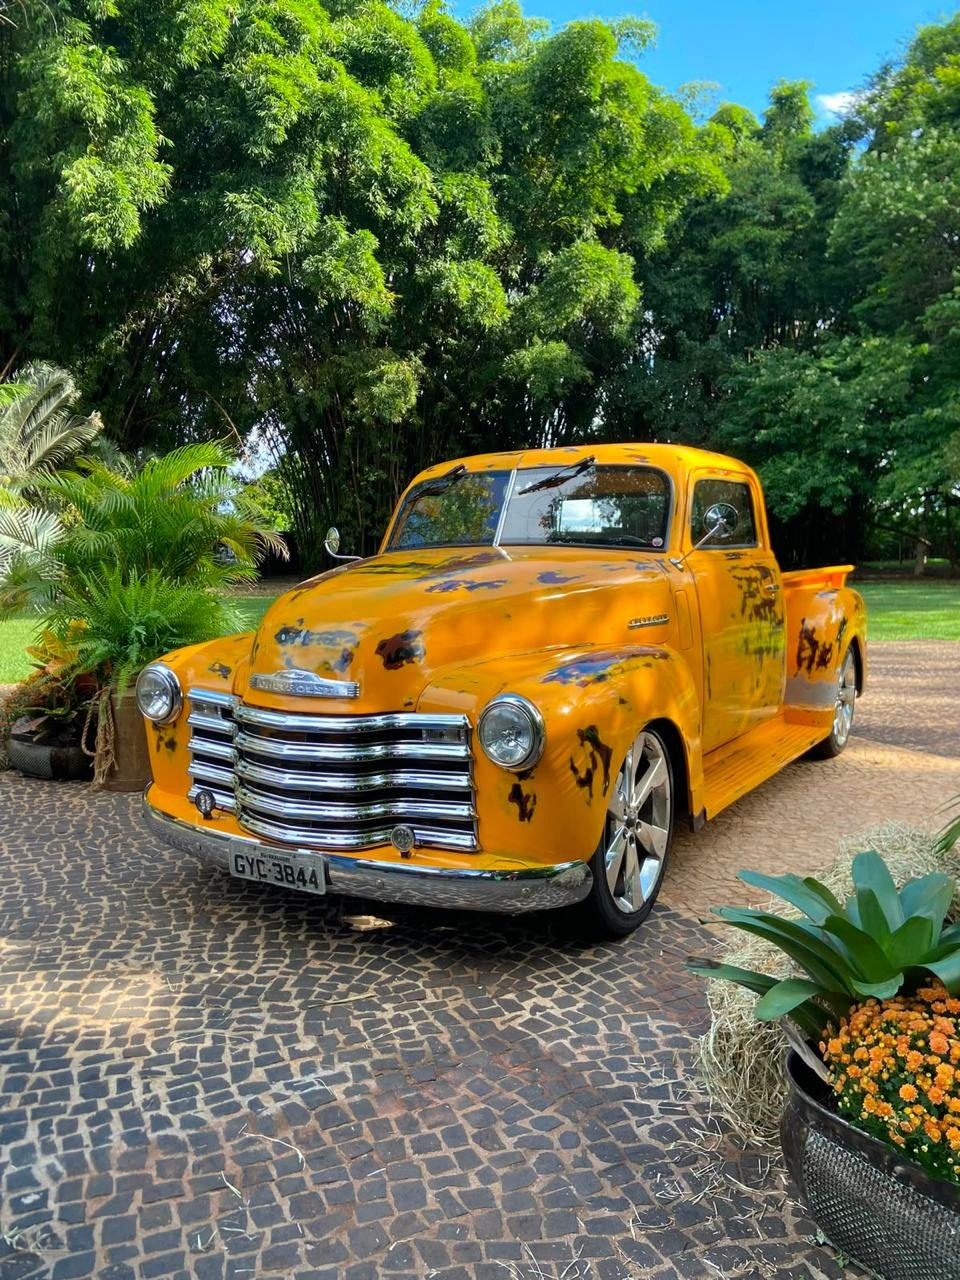
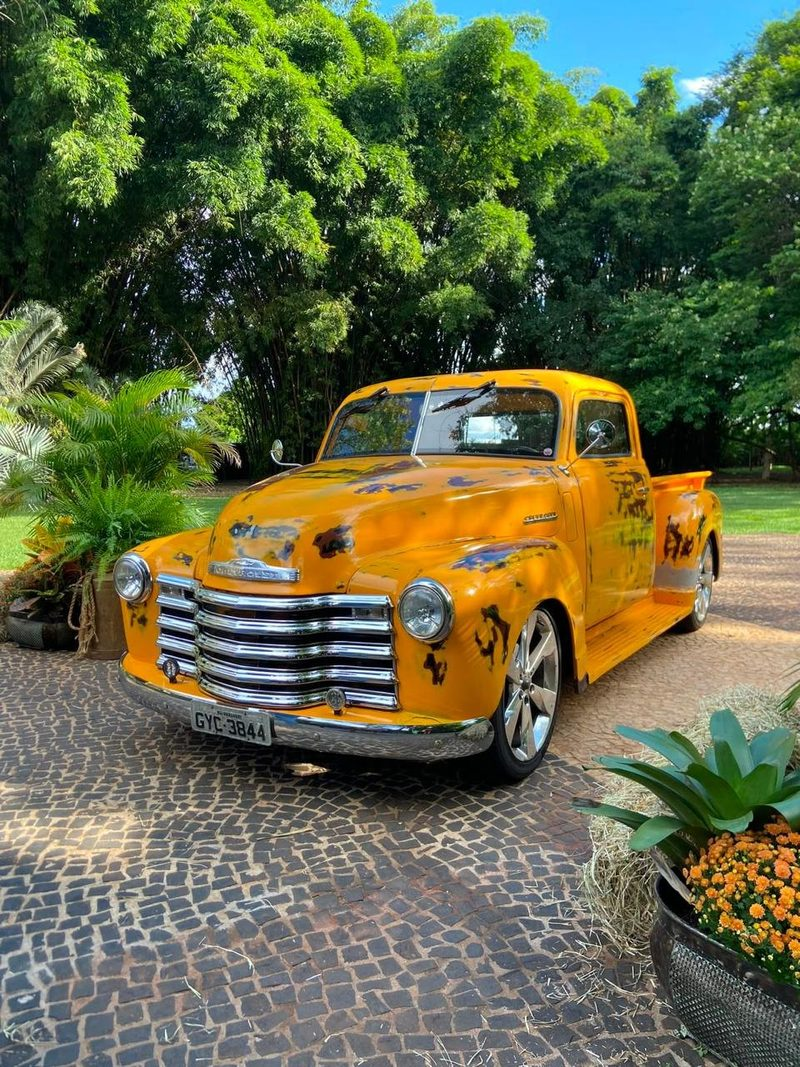
Revisão geral: textos, SEO, compartilhamento, imagens e acessibilidade
- Textos: correções de concordância e pontuação; frases sem afirmações
  que não dá para comprovar ("o mais famoso do Brasil", "cinco frisos")
- SEO: título e descrição com a busca local, canonical, dados de negócio
  local (schema.org) e imagem de compartilhamento 1200x630
- Ícone da aba (placa AL) e ícone para a tela inicial do celular
- Imagens em WebP com tamanhos por tela e fundo já desfocado em arquivo
  (sem blur pesado no CSS); fontes só nos pesos usados
- Título do topo visível no primeiro quadro; mais contraste nos textos
  sobre a foto; data mínima da reserva no fuso local

Lighthouse (celular): desempenho 83 -> 98, acessibilidade 96 -> 100,
boas práticas 96 -> 100, SEO 100.

Claude-Session: https://claude.ai/code/session_015yZBMqXKyy5axx8th3trUc

diff --git a/index.html b/index.html
@@ -3,27 +3,55 @@
 <head>
 <meta charset="utf-8">
 <meta name="viewport" content="width=device-width, initial-scale=1, viewport-fit=cover">
-<title>Aluganeio</title>
-<meta name="description" content="Aluguel de carros clássicos: Chevrolet Veraneio e Chevrolet 3100 Boca de Sapo para casamentos, ensaios fotográficos, filmes e eventos.">
-<meta property="og:title" content="Aluganeio — clássicos para alugar">
-<meta property="og:description" content="Veraneio e Boca de Sapo para casamentos, ensaios, filmes e eventos.">
+<title>Aluganeio · Aluguel de carros antigos para casamento em Uberlândia</title>
+<meta name="description" content="Alugue uma Chevrolet Veraneio ou uma Chevrolet 3100 Boca de Sapo para casamentos, ensaios fotográficos, filmes e eventos em Uberlândia e região. Reserva rápida pelo WhatsApp.">
+<link rel="canonical" href="https://joaolimaarcom.github.io/aluganeio/">
+<meta property="og:type" content="website">
+<meta property="og:locale" content="pt_BR">
+<meta property="og:site_name" content="Aluganeio">
+<meta property="og:url" content="https://joaolimaarcom.github.io/aluganeio/">
+<meta property="og:title" content="Aluganeio · Veraneio e Boca de Sapo para alugar">
+<meta property="og:description" content="Dois clássicos Chevrolet amarelos para casamentos, ensaios, filmes e eventos em Uberlândia e região.">
+<meta property="og:image" content="https://joaolimaarcom.github.io/aluganeio/assets/og-image.jpg">
+<meta property="og:image:width" content="1200">
+<meta property="og:image:height" content="630">
+<meta property="og:image:alt" content="Chevrolet Veraneio e Chevrolet 3100 Boca de Sapo amarelas lado a lado">
+<meta name="twitter:card" content="summary_large_image">
 <meta name="theme-color" content="#15211F">
+<link rel="icon" href="assets/favicon.svg" type="image/svg+xml">
+<link rel="apple-touch-icon" href="assets/apple-touch-icon.png">
 <link rel="preconnect" href="https://fonts.googleapis.com">
 <link rel="preconnect" href="https://fonts.gstatic.com" crossorigin>
-<link rel="stylesheet" href="https://fonts.googleapis.com/css2?family=Archivo:wdth,wght@62..125,400..900&family=Barlow+Condensed:wght@500;600;700&family=Instrument+Sans:wght@400;500;600&display=swap">
+<link rel="stylesheet" href="https://fonts.googleapis.com/css2?family=Archivo:wdth,wght@100..125,700..900&family=Barlow+Condensed:wght@600;700&family=Instrument+Sans:wght@400;500;600&display=swap">
 <link rel="stylesheet" href="assets/style.css">
+<script type="application/ld+json">
+{
+  "@context": "https://schema.org",
+  "@type": "LocalBusiness",
+  "name": "Aluganeio",
+  "description": "Aluguel de carros antigos para casamentos, ensaios fotográficos, filmes e eventos.",
+  "url": "https://joaolimaarcom.github.io/aluganeio/",
+  "image": "https://joaolimaarcom.github.io/aluganeio/assets/og-image.jpg",
+  "telephone": "+55 34 99772-9702",
+  "areaServed": ["Uberlândia", "Triângulo Mineiro"],
+  "address": { "@type": "PostalAddress", "addressLocality": "Uberlândia", "addressRegion": "MG", "addressCountry": "BR" }
+}
+</script>
 </head>
 <body>
 
 <div class="backdrop" aria-hidden="true">
-  <img class="bd-sharp" src="assets/fotos/os-dois.jpg" alt="">
-  <img class="bd-blur" src="assets/fotos/os-dois.jpg" alt="">
+  <picture>
+    <source type="image/webp" srcset="assets/fotos/os-dois-800.webp 800w, assets/fotos/os-dois-1500.webp 1500w" sizes="100vw">
+    <img class="bd-sharp" src="assets/fotos/os-dois.jpg" alt="" fetchpriority="high" decoding="async">
+  </picture>
+  <img class="bd-blur" src="assets/fotos/os-dois-blur.webp" alt="" decoding="async">
   <div class="bd-shade"></div>
   <div class="bd-veil"></div>
 </div>
 
 <header class="topbar">
-  <a class="brand" href="#inicio" aria-label="Aluganeio, início">
+  <a class="brand" href="#inicio">
     <span class="brand-plate" aria-hidden="true">AL</span>
     <span class="brand-name">Aluganeio</span>
   </a>
@@ -43,7 +71,7 @@
     <div class="hero-copy">
       <p class="eyebrow">Aluguel de clássicos · Chevrolet Veraneio e Chevrolet 3100 Boca de Sapo</p>
       <h1 class="hero-title">Chegue de <span class="swap" id="heroSwap">Veraneio</span></h1>
-      <p class="hero-lede">Dois Chevrolet amarelos, cromados e prontos para o seu casamento, ensaio, filme ou evento. Você escolhe o carro e a data, a gente cuida do resto.</p>
+      <p class="hero-lede">Dois clássicos Chevrolet amarelos, cromados e prontos para o seu casamento, ensaio, filme ou evento. Você escolhe o carro e a data, a gente cuida do resto.</p>
       <div class="hero-actions">
         <a class="btn btn-plate" href="#reserva">Montar minha reserva</a>
         <a class="btn btn-glass" href="#frota">Conhecer a frota</a>
@@ -77,7 +105,10 @@
     <div class="fleet">
       <article class="car-card" data-car="veraneio">
         <div class="photo">
-          <img src="assets/fotos/veraneio.jpg" alt="Chevrolet Veraneio amarela, vista de frente, com grade preta e para-choque cromado" style="--pos: 40% 60%" loading="lazy" onerror="this.remove()">
+          <picture>
+            <source type="image/webp" srcset="assets/fotos/veraneio-560.webp 560w, assets/fotos/veraneio-900.webp 900w" sizes="(min-width: 900px) 540px, 92vw">
+            <img src="assets/fotos/veraneio.jpg" alt="Chevrolet Veraneio amarela, vista de frente, com grade preta e para-choque cromado" style="--pos: 40% 60%" width="800" height="916" loading="lazy" decoding="async" onerror="this.remove()">
+          </picture>
           <div class="photo-empty">
             <div class="plate"><small>ALUGANEIO · BR</small><strong>VE·0001</strong></div>
             <span>Foto em breve</span>
@@ -86,9 +117,9 @@
         <div class="car-body">
           <div class="car-title">
             <h3>Chevrolet Veraneio</h3>
-            <span class="tag">O utilitário mais famoso do Brasil</span>
+            <span class="tag">Um ícone das estradas brasileiras</span>
           </div>
-          <p>Espaçosa, imponente e amarela do para-choque ao teto. A Veraneio marcou gerações nas estradas brasileiras e hoje faz qualquer chegada virar foto.</p>
+          <p>Espaçosa, imponente e amarela do capô ao teto. A Veraneio marcou gerações nas estradas brasileiras e hoje faz qualquer chegada virar foto.</p>
           <dl class="specs">
             <div><dt>Ano</dt><dd class="todo">a definir</dd></div>
             <div><dt>Cor</dt><dd>Amarela</dd></div>
@@ -101,7 +132,10 @@
 
       <article class="car-card" data-car="boca">
         <div class="photo">
-          <img src="assets/fotos/boca-de-sapo.jpg" alt="Picape Chevrolet 3100 Boca de Sapo amarela com pintura envelhecida, montada em um jardim para evento" style="--pos: 50% 65%" loading="lazy" onerror="this.remove()">
+          <picture>
+            <source type="image/webp" srcset="assets/fotos/boca-de-sapo-560.webp 560w, assets/fotos/boca-de-sapo-900.webp 900w" sizes="(min-width: 900px) 540px, 92vw">
+            <img src="assets/fotos/boca-de-sapo.jpg" alt="Picape Chevrolet 3100 Boca de Sapo amarela com pintura envelhecida, montada em um jardim para evento" style="--pos: 50% 65%" width="800" height="1067" loading="lazy" decoding="async" onerror="this.remove()">
+          </picture>
           <div class="photo-empty">
             <div class="plate"><small>ALUGANEIO · BR</small><strong>BS·0002</strong></div>
             <span>Foto em breve</span>
@@ -112,7 +146,7 @@
             <h3>Chevrolet 3100 Boca de Sapo</h3>
             <span class="tag">A picape da grade cromada</span>
           </div>
-          <p>A grade cromada de cinco frisos deu o apelido que pegou. Pintura amarela com pátina, rodas modernas e aquele charme de quem já rodou muita estrada. Fica linda na decoração de festas e casamentos no campo.</p>
+          <p>A grade cromada deu o apelido que pegou. Pintura amarela com pátina, rodas modernas e aquele charme de quem já rodou muita estrada. Fica linda na decoração de festas e casamentos no campo.</p>
           <dl class="specs">
             <div><dt>Ano</dt><dd class="todo">a definir</dd></div>
             <div><dt>Cor</dt><dd>Amarela com pátina</dd></div>
@@ -126,7 +160,7 @@
   </section>
 
   <!-- OCASIÕES -->
-  <section class="section section-alt" id="ocasioes">
+  <section class="section" id="ocasioes">
     <div class="section-head">
       <p class="eyebrow">Ocasiões</p>
       <h2>Para os dias que merecem entrada de cinema.</h2>
@@ -252,7 +286,7 @@
       <div class="reserve-copy">
         <p class="eyebrow">Reserva</p>
         <h2>Monte seu pedido em um minuto.</h2>
-        <p>Preencha os campos e toque em enviar. Abrimos o WhatsApp com sua mensagem pronta, é só confirmar o envio.</p>
+        <p>Preencha os campos e toque em enviar. Abrimos o WhatsApp com a sua mensagem pronta. É só confirmar o envio.</p>
         <div class="ticket" aria-live="polite">
           <div class="ticket-row"><span>Carro</span><strong id="tkCar">Veraneio</strong></div>
           <div class="ticket-row"><span>Pacote</span><strong id="tkPkg">Dia do Casamento</strong></div>
@@ -325,7 +359,7 @@
 
         <label class="field">
           <span>Algum detalhe? <em>(opcional)</em></span>
-          <textarea id="fNotes" name="notes" rows="3" placeholder="Horário, locais, decoração..."></textarea>
+          <textarea id="fNotes" name="notes" rows="3" placeholder="Horário, locais, decoração…"></textarea>
         </label>
 
         <p class="form-error" id="formError" hidden></p>
@@ -371,7 +405,7 @@
         </details>
         <details>
           <summary>Dá para usar os dois carros no mesmo evento?</summary>
-          <p>Dá, e fica lindo nas fotos. Um exemplo: a Veraneio leva a noiva e a Boca de Sapo fica exposta na festa. Escolha "Os dois" na reserva.</p>
+          <p>Dá, e fica lindo nas fotos. Um exemplo: a Veraneio leva a noiva e a Boca de Sapo fica exposta na festa. Escolha “Os dois” na reserva.</p>
         </details>
         <details>
           <summary>Quantas pessoas cabem em cada carro?</summary>
@@ -426,7 +460,7 @@
   <div class="chat-chips" id="chatChips"></div>
   <form class="chat-form" id="chatForm">
     <label class="sr-only" for="chatInput">Sua pergunta</label>
-    <input id="chatInput" type="text" autocomplete="off" maxlength="500" placeholder="Pergunte sobre carros, pacotes, datas...">
+    <input id="chatInput" type="text" autocomplete="off" maxlength="500" placeholder="Pergunte sobre carros, pacotes, datas…">
     <button type="submit" aria-label="Enviar pergunta">
       <svg viewBox="0 0 24 24" aria-hidden="true"><path d="M3 11.5 21 3l-8.5 18-2.2-7.3L3 11.5Z"/></svg>
     </button>

diff --git a/assets/style.css b/assets/style.css
@@ -110,15 +110,17 @@ p { margin: 0; }
   object-fit: cover; object-position: 50% 62%;
 }
 .bd-sharp { animation: focus-in 2s cubic-bezier(.2,.7,.2,1) both; }
-.bd-blur { filter: blur(40px) saturate(160%); transform: scale(1.08); opacity: var(--blur-o); }
+/* a versão desfocada já vem pronta do arquivo (mais leve que blur no CSS) */
+.bd-blur { filter: saturate(150%); transform: scale(1.06); opacity: var(--blur-o); will-change: opacity; }
 .bd-shade {
   position: absolute; inset: 0;
   background:
-    linear-gradient(90deg, rgba(8, 12, 11, 0.72) 0%, rgba(8, 12, 11, 0.35) 55%, rgba(8, 12, 11, 0.10) 100%),
+    linear-gradient(90deg, rgba(8, 12, 11, 0.80) 0%, rgba(8, 12, 11, 0.45) 55%, rgba(8, 12, 11, 0.12) 100%),
     linear-gradient(180deg, rgba(8, 12, 11, 0.35) 0%, transparent 30%, rgba(8, 12, 11, 0.55) 100%);
   opacity: calc(1 - var(--blur-o) * 0.6);
+  will-change: opacity;
 }
-.bd-veil { position: absolute; inset: 0; background: var(--veil); opacity: var(--blur-o); }
+.bd-veil { position: absolute; inset: 0; background: var(--veil); opacity: var(--blur-o); will-change: opacity; }
 @keyframes focus-in {
   from { filter: blur(24px) saturate(140%); transform: scale(1.1); }
   to { filter: none; transform: scale(1); }
@@ -215,7 +217,7 @@ p { margin: 0; }
   color: var(--on-photo);
 }
 .hero-copy { display: grid; gap: 22px; max-width: 900px; }
-.hero .eyebrow { color: rgba(246, 247, 242, 0.82); }
+.hero .eyebrow { color: rgba(246, 247, 242, 0.94); }
 .hero-title {
   font-size: clamp(52px, 10.5vw, 148px);
   font-weight: 900;
@@ -227,7 +229,7 @@ p { margin: 0; }
 }
 .swap { color: var(--plate); display: inline-block; transition: opacity .35s ease, transform .35s ease, filter .35s ease; }
 .swap.out { opacity: 0; transform: translateY(12px); filter: blur(8px); }
-.hero-lede { font-size: clamp(18px, 1.8vw, 21px); color: rgba(246, 247, 242, 0.88); max-width: 54ch; }
+.hero-lede { font-size: clamp(18px, 1.8vw, 21px); color: rgba(246, 247, 242, 0.96); max-width: 54ch; text-shadow: 0 1px 12px rgba(0, 0, 0, 0.35); }
 .hero-actions { display: flex; flex-wrap: wrap; gap: 12px; }
 .hero-meta { display: flex; flex-wrap: wrap; align-items: end; justify-content: space-between; gap: 20px; }
 .hero-plates { display: flex; gap: 12px; }
@@ -247,7 +249,8 @@ p { margin: 0; }
 }
 @media (max-width: 600px) { .hero-plates .plate strong { font-size: 26px; } }
 
-@keyframes rise { from { opacity: 0; transform: translateY(24px); filter: blur(10px); } to { opacity: 1; transform: none; filter: none; } }
+/* sem opacity 0: o título aparece já no primeiro quadro (melhor para o Google) */
+@keyframes rise { from { transform: translateY(24px); filter: blur(10px); } to { transform: none; filter: none; } }
 @keyframes cue { 0%, 100% { transform: translateY(0); opacity: 1; } 60% { transform: translateY(10px); opacity: 0; } }
 
 /* ---------- Faixa ---------- */
@@ -343,12 +346,12 @@ p { margin: 0; }
 
 /* ---------- Reserva ---------- */
 .reserve {
-  background: rgba(12, 18, 16, 0.62);
+  background: rgba(12, 18, 16, 0.74);
   border-color: rgba(255, 255, 255, 0.12);
   color: var(--on-photo);
 }
 .reserve-grid { display: grid; grid-template-columns: repeat(auto-fit, minmax(min(100%, 360px), 1fr)); gap: clamp(32px, 6vw, 72px); align-items: start; }
-.reserve .eyebrow, .reserve-copy > p { color: rgba(246, 247, 242, 0.75); }
+.reserve .eyebrow, .reserve-copy > p { color: rgba(246, 247, 242, 0.88); }
 .reserve-copy { display: grid; gap: 18px; }
 .ticket {
   margin-top: 12px;
@@ -358,7 +361,7 @@ p { margin: 0; }
 }
 .ticket-row { display: flex; justify-content: space-between; gap: 16px; padding: 12px 0; border-bottom: 1px solid rgba(255, 255, 255, 0.10); }
 .ticket-row:last-child { border-bottom: 0; }
-.ticket-row span { font: 600 13px/1.4 var(--f-data); letter-spacing: 0.14em; text-transform: uppercase; color: rgba(246, 247, 242, 0.62); }
+.ticket-row span { font: 600 13px/1.4 var(--f-data); letter-spacing: 0.14em; text-transform: uppercase; color: rgba(246, 247, 242, 0.82); }
 .ticket-row strong { font-weight: 600; text-align: right; }
 
 .form {

diff --git a/assets/app.js b/assets/app.js
@@ -39,8 +39,9 @@ const formatDate = (iso) => {
   return `${d}/${m}/${y}`;
 };
 
-// Data mínima: hoje
-date.min = new Date().toISOString().slice(0, 10);
+// Data mínima: hoje (no fuso de quem está usando, não em UTC)
+const today = new Date();
+date.min = `${today.getFullYear()}-${String(today.getMonth() + 1).padStart(2, "0")}-${String(today.getDate()).padStart(2, "0")}`;
 
 function updateTicket() {
   $("#tkCar").textContent = form.car.value;

diff --git a/README.md b/README.md
@@ -25,7 +25,7 @@ worker/worker.js           servidor do chat (arquivo único para colar na Cloudf
 - [ ] Confirmar pacotes (duração, itens inclusos, preços ou "sob consulta")
 - [ ] Confirmar respostas das Dúvidas (motorista, decoração, cidades, sinal, chuva)
 - [x] Worker do chat publicado: https://aluganeio.jlrodrigues6900.workers.dev/
-- [ ] Cadastrar o secret GEMINI_API_KEY no Worker
+- [x] Chave do Gemini cadastrada no Worker (chat funcionando)
 - [ ] Álbuns de fotos para a galeria
 
 ## Chat com Gemini (tudo pelo navegador, sem instalar nada)
